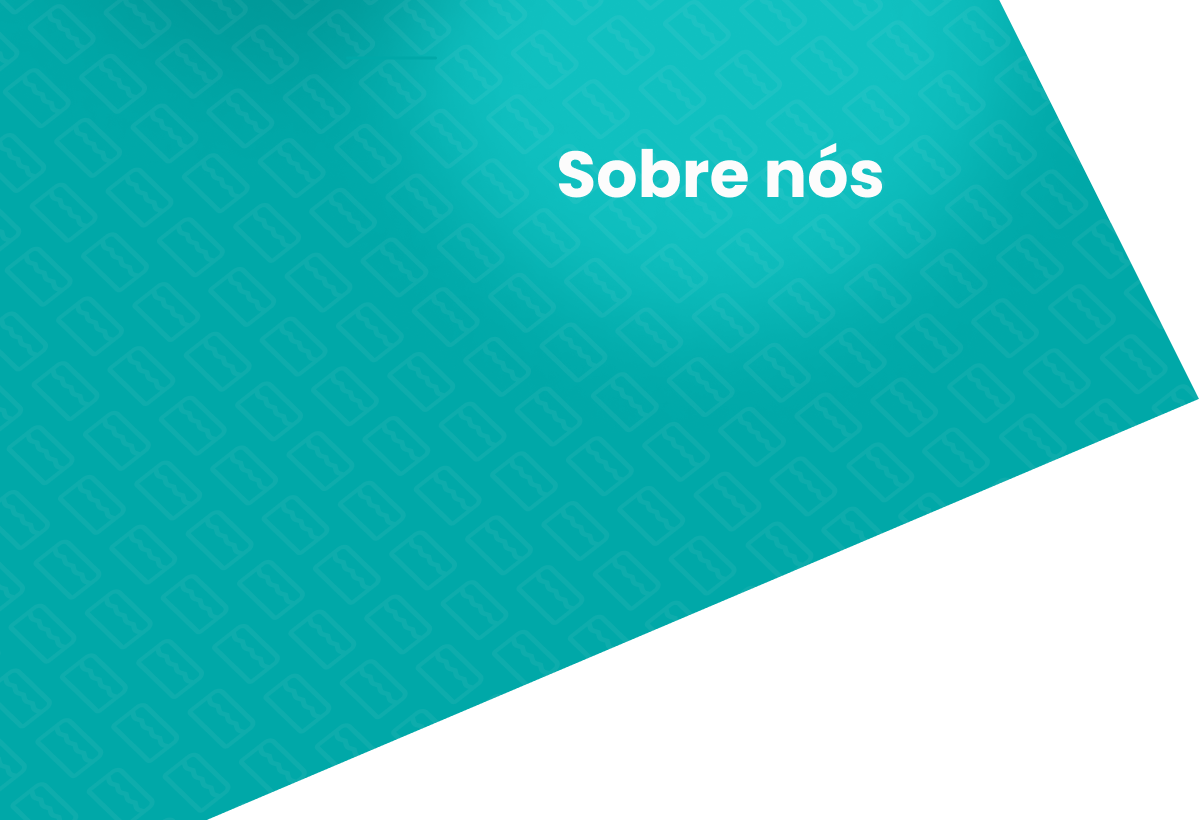
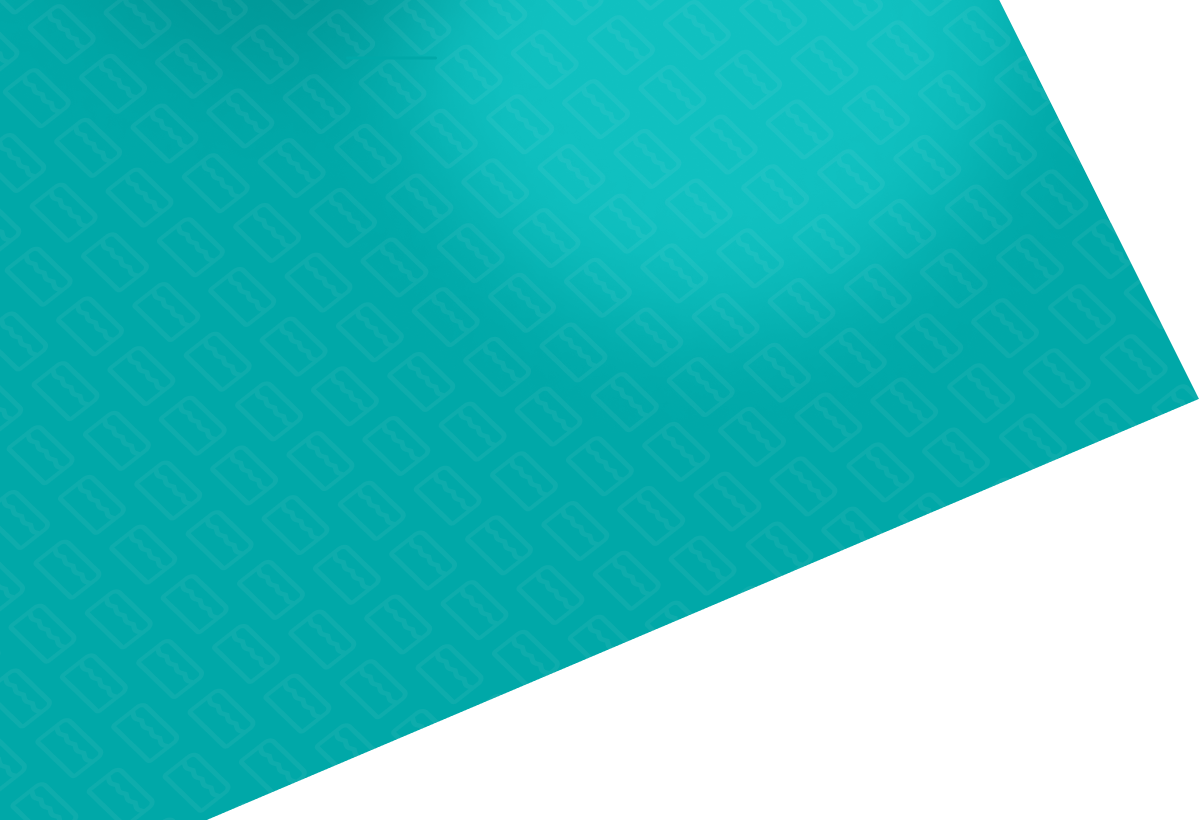
Página 'sobre nós' finalizada

Changed region(s): [[0.4629, 0.1829, 0.7406, 0.2439]]

diff --git a/sobre-nos/style.css b/sobre-nos/style.css
@@ -157,15 +157,18 @@ h5 {
 
 @media (max-width: 750px) {
 
-    img #teste {
-        
+    main .informacoes img#background {
+        width: 100vw;
+        height: 900px;
+        object-fit: cover;
+     
     }
 
     h1 {
         position: absolute;
         width: 215px;
         height: 62px;
-        left: 80px;
+        left: 120px;
         top: 150px;
         font-style: normal;
         font-size: 40px;
@@ -191,7 +194,7 @@ h5 {
         position: absolute;
         width: 214px;
         height: 151px;
-        left: 130px;
+        left: 150px;
         top: 250px;
         font-size: 15px;
         line-height: 22px;

diff --git a/sobre-nos/index.html b/sobre-nos/index.html
@@ -17,7 +17,7 @@
     <main>
         <div class="informacoes">
 
-            <img src="../public/images/backgr.png" alt="Soft Cake Background" id="teste">
+            <img src="../public/images/background2.png" alt="Soft Cake Background" id="background">
 
             <h1>Sobre nós</h1>
 
